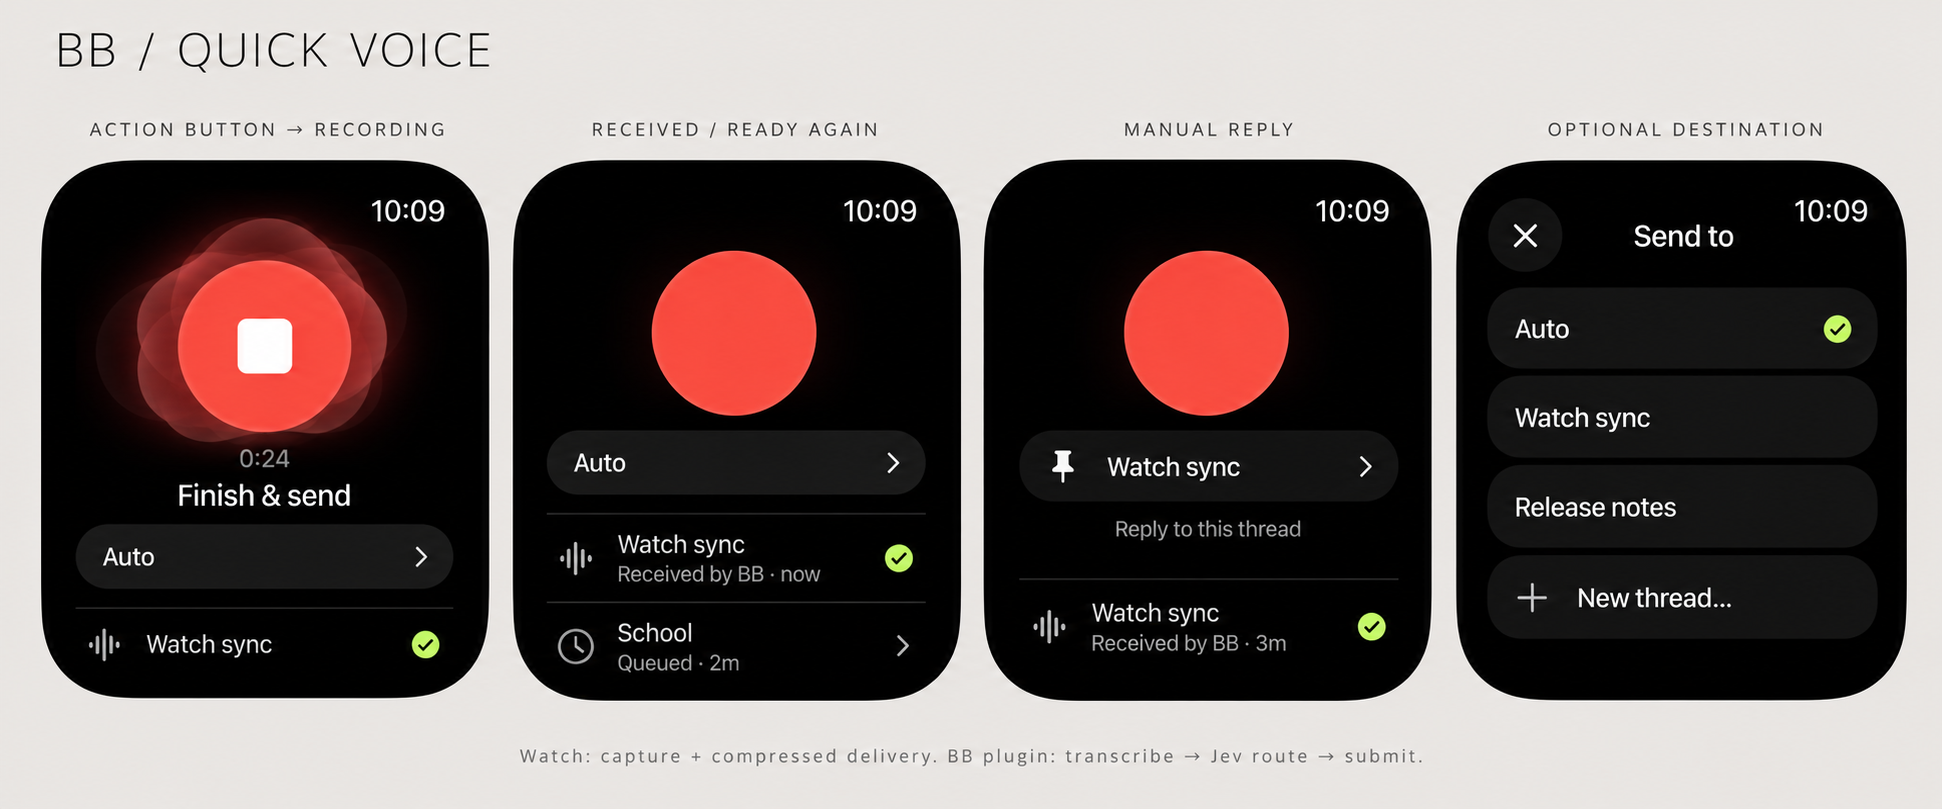
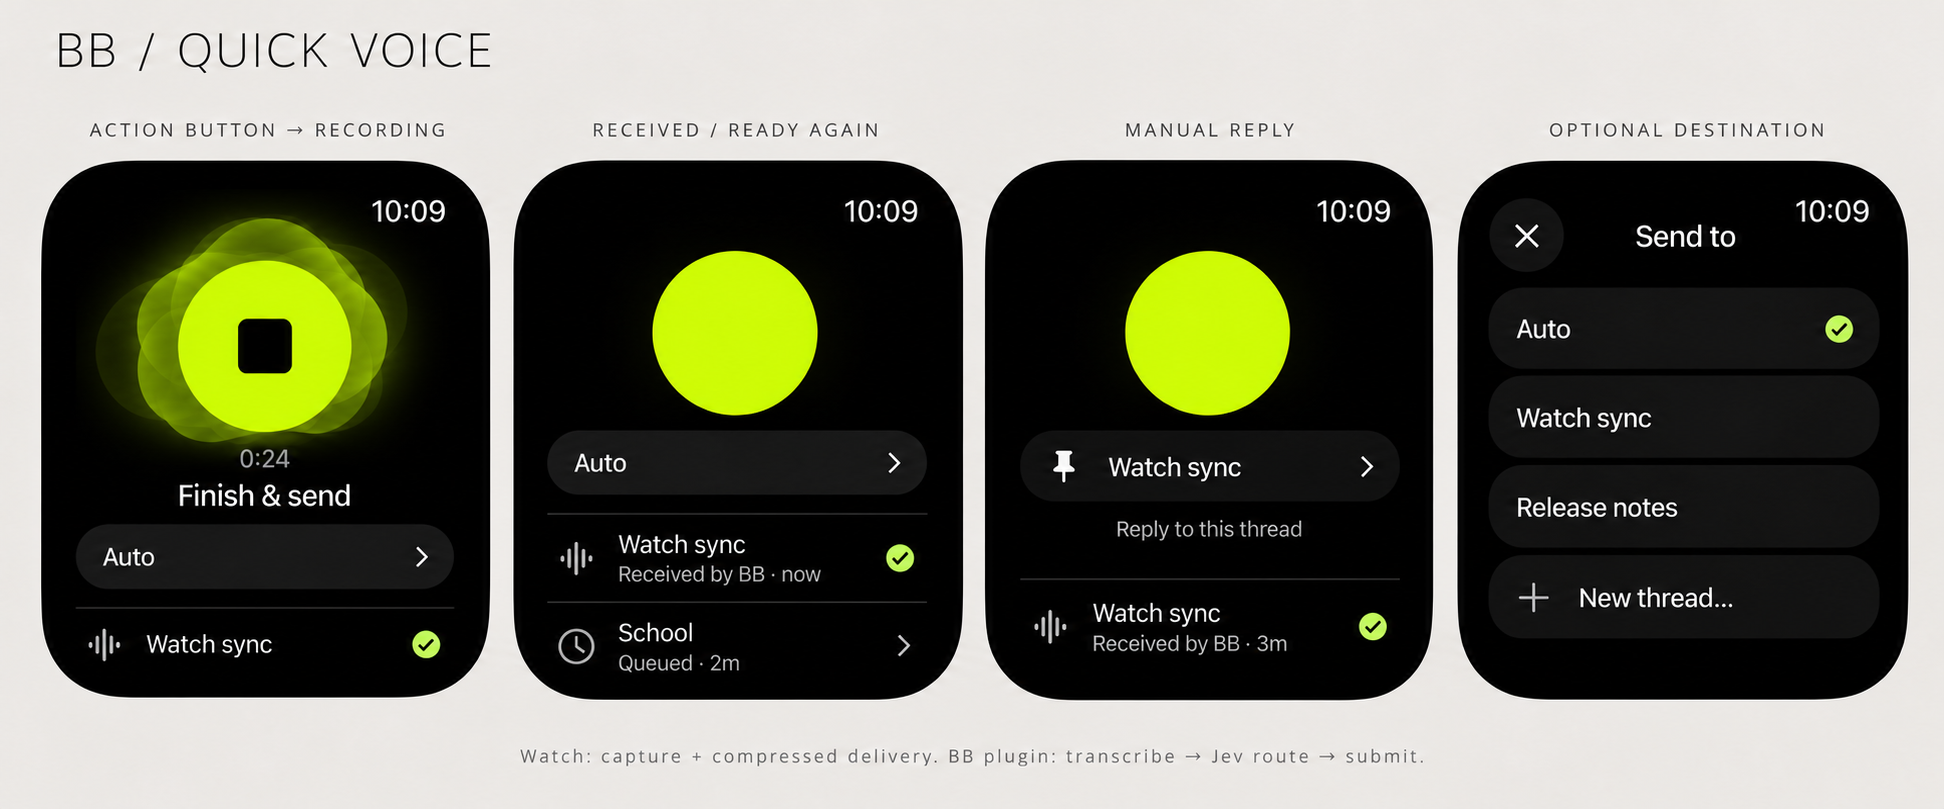
Use lime Quick Voice control and clarify deferred New thread creation

diff --git a/docs/design/quick-voice-prompt.md b/docs/design/quick-voice-prompt.md
@@ -4,6 +4,11 @@ Built-in image generation, 18 October 2026. Concept illustration, not a measured
 native screenshot. Original visual; third-party reference assets were not copied.
 The [written version](../../specs/bb-watch-quick-voice.md) governs behavior.
 
+## Initial red concept — 18 October
+
+The initial prompt below is retained as generation provenance. The current asset
+includes the lime revision that follows it.
+
 ```text
 Use case: ui-mockup. Create a new ultra-minimal high-fidelity Apple Watch voice-notes app concept, not the old UI. Single elegant landscape design board, four large display panels in one row on warm light gray, title "BB / QUICK VOICE". Thin editorial labels outside screens only. Screens all identical 49mm watch aspect ratio, black edge-to-edge with natural rounded corners; no watch bodies/bands, phone frames, faux floating topbars. Small native 10:09 upper right. System-like white typography, red/coral primary recording control, tiny lime receipt checks. Very little content. All primary circles share the same diameter and center position in each recorder screen, below the time. One large circle is the clear visual hero. The RECIPIENT is always BELOW the circle, never a header above it.
 Panel 01 label outside "ACTION BUTTON → RECORDING". On screen: one prominent red circle with a familiar white stop square, subtle luminous red/coral fluid halo reacting to voice, restrained organic light not spikes or equalizer. Below the control small readable text "Finish & send" to make its action explicit. Below that a compact charcoal destination row "Auto" with small right chevron. Tiny elapsed "0:24" secondary if room. No separate Send button, no giant timer, no listening transcript, no model chips. Bottom just a barely visible previous-recording row "Watch sync" with a tiny lime check. The halo must look tactile, refined, inviting, Siri-inspired but original and red not rainbow.
@@ -12,4 +17,19 @@ Panel 03 label "MANUAL REPLY". Same red idle record circle at identical anchor. 
 Panel04 label "OPTIONAL DESTINATION". Native full-screen one-value picker, a visible circular X at top left, title "Send to", 10:09 upper right. Charcoal list rows: "Auto" selected with lime check; "Watch sync"; "Release notes"; "New thread…" plus symbol. No red recording button in the picker, no duplicated chosen-thread header, no Back, no model or project selection visible in this frame.
 Bottom board annotation, outside screens in small understated text: "Watch: capture + compressed delivery. BB plugin: transcribe → Jev route → submit."
 Prioritize spacious simplicity and legibility, no extra decorations or explanatory paragraphs. This is a product concept board, no claims of real device screenshots. Exact English text as given.
+```
+
+## Lime revision — 19 October
+
+Built-in image edit of the original concept; the output replaces quick-voice.png.
+The existing native AccentColor is RGB (0.835, 1, 0), rounded to #D5FF00.
+
+```text
+Edit the provided BB / QUICK VOICE four-panel concept board. Preserve the entire composition, all panels, typography, text, clocks, recipient rows, history, dimensions and positions. Change only the main recording controls and their halo:
+- Replace EVERY red/coral recording circle in panels01,02,03 with the brand's bright lime/chartreuse #D5FF00, matching the existing small lime receipt checks.
+- In panel01 change the red/coral audio-reactive glow to a subtle lime/chartreuse glow, retaining the same organic soft shape. Use a BLACK stop square inside the lime circle for clear contrast (not white).
+- Idle circles in panels02 and03 are solid lime with no glyph, no extra halo.
+- Do not change the charcoal picker rows, no recording circle added in panel04.
+- No red or coral capture colors remain. Keep everything else unchanged and the result equally minimal.
+This is an edit of the original concept, not a new layout.
 ```

diff --git a/specs/bb-watch-quick-voice.md b/specs/bb-watch-quick-voice.md
@@ -1,6 +1,6 @@
 # BB Quick Voice — minimal version
 
-18 October 2026. **Product/design proposal for the latest user request; not an
+Updated 19 October 2026. **Product/design proposal for the latest user request; not an
 implemented or hardware-validated build.** This refines the
 [voice-notes direction](bb-watch-voice-notes-direction.md). The older 2.0
 Finish/Send and mandatory-recipient flows are not this variant's contract.
@@ -26,11 +26,14 @@ An interruption, timeout, app exit or Pause never stands in for Finish & send.
 
 ## One screen
 
-Large red capture control; its selected destination **below** it; history further
-down by Crown scrolling. Idle is still. Live capture has a restrained red/coral
+Large lime capture control (`#D5FF00`, matching the existing BB Watch accent);
+its selected destination **below** it; history further
+down by Crown scrolling. Idle is still. Live capture has a restrained lime
 halo driven by actual microphone level, not a looping fake waveform. A small
 elapsed time is secondary. During capture the control's stop symbol has the
 short visible caption Finish & send so transmission is not disguised as Save.
+The stop glyph is black on lime. Capture remains distinguishable from a receipt
+by shape, placement, caption and motion; color alone does not signal recording.
 
 After enqueue, the same screen is ready for the next thought. The first history
 row is the latest receipt, not a separate shortcut or modal. Ordinary captions:
@@ -59,6 +62,30 @@ automatic sending because the user stopped speaking or left the app.
 - Plugin persists one destination/model decision per recording before submission.
   Keep original transcript, per-recipient Send order and no automatic replay
   after ambiguous BB acceptance. Existing thread execution policy is preserved.
+
+### What New thread does
+
+1. Tapping New thread closes the destination chooser and returns to the same
+   recorder/draft. The destination below the capture control reads New thread.
+   No microphone starts, no audio is sent and no BB thread is created by this tap.
+   If capture was live, it stays live; navigation itself does not toggle capture.
+2. This is explicit **force-new** intent, unlike Auto, which may choose an existing
+   thread. There is no mandatory project/model form or required title. The user
+   may say the project in the recording; an optional explicit project/model
+   choice remains available as a manual override, not an extra compulsory step.
+3. Finish & send freezes that New context and any explicit overrides. After
+   durable audio intake and transcription, the plugin resolves the project and
+   model subject to the overrides, then creates one new thread with the complete
+   first message. Spoken existing-thread wording cannot silently override the
+   explicit New choice; a conflict is held for clarification.
+4. If the project cannot be resolved confidently, keep the audio/job and request
+   clarification rather than choosing an unrelated project. Show the actual
+   thread title in that recording's history row only after it exists.
+
+An in-app follow-up still addressing the same pending New context resolves to
+that same future thread. Tapping New thread again explicitly starts an independent
+context. The dedicated quick-start shortcut still starts Auto as described above.
+An ambiguous create result is reconciled, never automatically spawned again.
 
 ## Recommended technology
 

diff --git a/specs/bb-watch-voice-notes-direction.md b/specs/bb-watch-voice-notes-direction.md
@@ -14,7 +14,7 @@ New configuration with flattened project destinations as approved. Automatic
 routing below is a new direction, not permission to silently remove explicit
 target/model overrides.
 
-The primary layout is now the red recording control, then the current destination
+The primary layout is now the lime (`#D5FF00`) recording control, then the current destination
 or Auto, then scrollable history/status. It resembles a voice-notes recorder.
 There is no separate history page or competing direct-latest-detail shortcut.
 An item may open the one native detail route; Back restores the root position.
@@ -74,6 +74,8 @@ already exists. No live Jev/provider request was made for this research.
 ## Visual direction
 
 See [references and button recommendation](../docs/design/voice-notes-references.md).
-Keep the red control primary, the recipient below it, sparse lime delivery
-accents, and restrained voice-reactive motion. The earlier 12-panel sprite is
+Keep the lime control primary, a black stop glyph during recording, the recipient
+below it, and restrained lime voice-reactive motion. See the latest
+[Quick Voice variant](bb-watch-quick-voice.md) for explicit New thread behavior.
+The earlier 12-panel sprite is
 historical context for 2.0; it is not the new auto-routing composition.

diff --git a/design.md b/design.md
@@ -5,9 +5,13 @@ latest two-action proposal: shortcut starts capture, Finish & send queues
 compressed delivery, optional manual target below the control. Its
 [concept](docs/design/quick-voice.png) replaces the earlier sprite for this variant.
 Technical/hardware proof remains pending.
+As of 19 October, the Quick Voice control and its halo use the existing lime
+accent `#D5FF00`, with a black stop glyph. This supersedes the older red capture
+styling below. New thread returns directly to the recorder with force-new intent;
+see the variant's explicit transition rules.
 
 **Latest direction:** [voice-notes update](specs/bb-watch-voice-notes-direction.md)
-adopts merged root history, reduced statuses, the red control above its recipient
+adopts merged root history, reduced statuses, the lime control above its recipient
 and plugin-assisted Auto routing / explicit Reply. [Visual references](docs/design/voice-notes-references.md).
 The 2.0 baseline below and its sprite require reconciliation with that update
 before implementation; do not treat old top-recipient or mandatory-target flows

diff --git a/docs/design/voice-notes-references.md b/docs/design/voice-notes-references.md
@@ -24,8 +24,10 @@ of Voice Memos / Just Press Record.
 
 ## Button recommendation
 
-- Idle: a stable red circular control, still and unmistakably tappable.
-- Real capture: a soft red/coral halo or restrained deformation around that
+- BB update, 19 October: use the existing lime `#D5FF00` instead of the red used
+  in some references. Use a black stop glyph for contrast.
+- Idle: a stable lime circular control, still and unmistakably tappable.
+- Real capture: a soft lime halo or restrained deformation around that
   same control, driven by measured microphone amplitude with smoothing.
 - Quiet input: the form settles; no unrelated equalizer dances continually.
 - Pause: motion stops; Resume remains an explicit familiar control.
